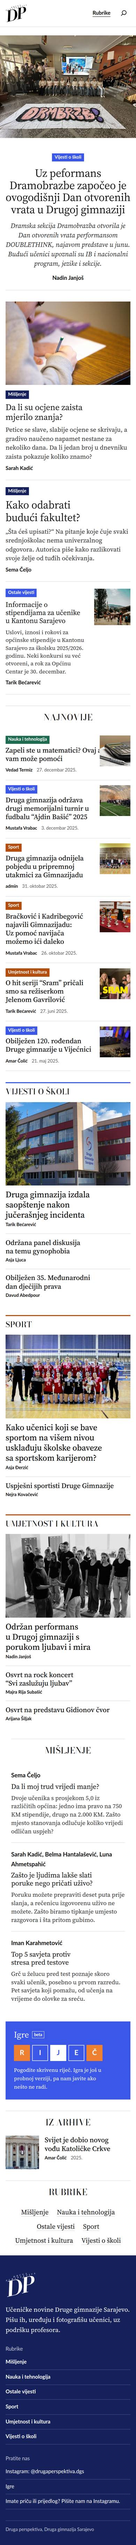
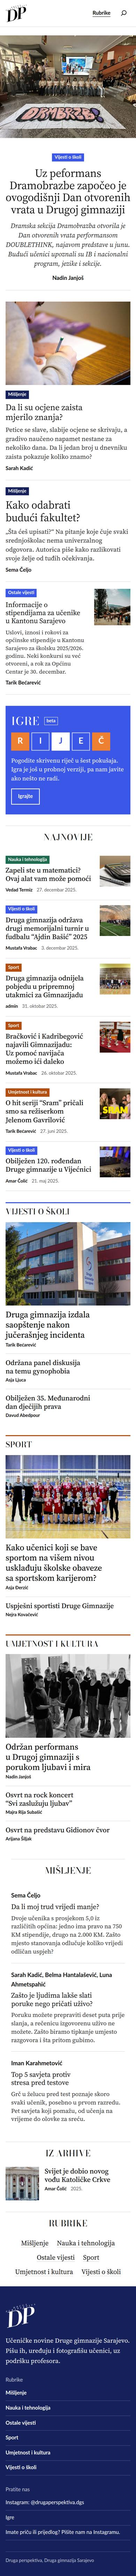
Move Igre up as a wide band under the featured stories
Igre becomes a full-width blue band between the features and Najnovije,
with a larger title, bigger letter tiles and an 'Igrajte' button; the
bottom row is now Iz arhive and Rubrike. Also show titles pasted with
non-breaking spaces with normal spaces so they wrap. Version 1.4.0.

Claude-Session: https://claude.ai/code/session_01QPkDtEsER7FQnCPTtN3PAv

diff --git a/druga-perspektiva/assets/css/theme.css b/druga-perspektiva/assets/css/theme.css
@@ -599,15 +599,26 @@ p {
 	margin: 0 !important;
 }
 
+/* Igre: široka plava traka odmah ispod izdvojenih tekstova. */
 .dp-igre-tile {
 	position: relative;
-	align-self: start;
+	display: grid !important;
+	gap: 1rem;
+	padding: 1.75rem var(--dp-gutter) !important;
+	margin-inline: calc(-1 * var(--dp-gutter));
 }
 
 .dp-igre-title {
 	margin: 0;
 	color: var(--wp--preset--color--papir);
-	font-size: var(--wp--preset--font-size--naslov-m);
+	font-family: var(--dp-display);
+	font-optical-sizing: none;
+	font-variation-settings: "opsz" 24;
+	font-weight: 500;
+	font-size: clamp(2rem, 1.5rem + 2vw, 3rem);
+	letter-spacing: 0.02em;
+	text-transform: uppercase;
+	line-height: 1;
 }
 
 .dp-igre-title a {
@@ -615,27 +626,31 @@ p {
 	text-decoration: none;
 }
 
+/* Cijela traka je link na igru. */
 .dp-igre-title a::after {
 	content: "";
 	position: absolute;
 	inset: 0;
 }
 
-.dp-igre-title a:hover {
-	color: inherit;
-	text-decoration: underline;
+.dp-igre-tile:hover .dp-igre-cta,
+.dp-igre-tile:focus-within .dp-igre-cta {
+	background: var(--wp--preset--color--papir);
+	color: var(--wp--preset--color--plava-chip);
 }
 
 .dp-beta {
 	display: inline-block;
-	margin-left: 0.3em;
-	padding: 0.15em 0.4em;
-	border: 1px solid rgba(255, 255, 255, 0.8);
+	margin-left: 0.4em;
+	padding: 0.2em 0.45em;
+	border: 1px solid rgba(255, 255, 255, 0.85);
 	font-family: var(--dp-sans);
-	font-size: 0.75rem;
+	font-size: 0.8125rem;
 	font-weight: 700;
+	letter-spacing: 0;
+	text-transform: none;
 	line-height: 1.2;
-	vertical-align: 0.35em;
+	vertical-align: 0.6em;
 }
 
 .dp-igre-tiles {
@@ -646,11 +661,11 @@ p {
 .dp-igre-tiles span {
 	display: grid;
 	place-items: center;
-	width: 42px;
-	height: 42px;
+	width: 48px;
+	height: 48px;
 	border: 2px solid rgba(255, 255, 255, 0.7);
 	font-family: var(--dp-sans);
-	font-size: 1.25rem;
+	font-size: 1.5rem;
 	font-weight: 700;
 	color: var(--wp--preset--color--papir);
 }
@@ -668,7 +683,21 @@ p {
 
 .dp-igre-tile p {
 	margin: 0;
-	max-width: 34ch;
+}
+
+.dp-igre-text {
+	max-width: 30rem;
+	font-size: 1.0625rem;
+	line-height: 1.5;
+}
+
+.dp-igre-cta {
+	justify-self: start;
+	padding: 0.55rem 1.1rem;
+	border: 2px solid var(--wp--preset--color--papir);
+	font-family: var(--dp-sans);
+	font-weight: 700;
+	font-size: var(--wp--preset--font-size--ui);
 }
 
 .dp-archive-list > li {
@@ -1218,10 +1247,7 @@ body:not(.paged) .dp-river--first-big > li:first-child .wp-block-post-title {
 
 	.dp-bottom {
 		grid-template-columns: 1fr 1fr;
-	}
-
-	.dp-rubrike-module {
-		grid-column: 1 / -1;
+		column-gap: 3rem;
 	}
 
 	.is-style-siroka-fotografija {
@@ -1230,6 +1256,20 @@ body:not(.paged) .dp-river--first-big > li:first-child .wp-block-post-title {
 }
 
 @media (min-width: 782px) {
+	.dp-igre-tile {
+		margin-inline: 0;
+		grid-template-columns: auto 1fr auto;
+		grid-template-areas: "title text cta" "tiles text cta";
+		column-gap: 3rem;
+		align-items: center;
+		padding: 2rem 2.5rem !important;
+	}
+
+	.dp-igre-title { grid-area: title; }
+	.dp-igre-tiles { grid-area: tiles; }
+	.dp-igre-text { grid-area: text; }
+	.dp-igre-cta { grid-area: cta; }
+
 	.dp-lead-card {
 		grid-template-columns: 1fr 1fr;
 		gap: 3rem;
@@ -1342,13 +1382,6 @@ body:not(.paged) .dp-river--first-big > li:first-child .wp-block-post-title {
 }
 
 @media (min-width: 1000px) {
-	.dp-bottom {
-		grid-template-columns: 1fr 1fr 1fr;
-	}
-
-	.dp-rubrike-module {
-		grid-column: auto;
-	}
 
 	.dp-article-body .wp-block-pullquote {
 		margin-left: -3rem;

diff --git a/druga-perspektiva/templates/front-page.html b/druga-perspektiva/templates/front-page.html
@@ -44,6 +44,8 @@
 	</div>
 	<!-- /wp:query -->
 
+	<!-- wp:pattern {"slug":"druga-perspektiva/igre-tile"} /-->
+
 	<!-- wp:query {"queryId":3,"query":{"perPage":6,"pages":0,"offset":0,"postType":"post","order":"desc","orderBy":"date","author":"","search":"","exclude":[],"sticky":"","inherit":false},"className":"dp-latest dp-min-3","metadata":{"name":"Najnovije"}} -->
 	<div class="wp-block-query dp-latest dp-min-3">
 		<!-- wp:heading {"level":2,"className":"dp-module-heading"} -->
@@ -130,8 +132,6 @@
 
 	<!-- wp:group {"className":"dp-bottom","layout":{"type":"default"}} -->
 	<div class="wp-block-group dp-bottom">
-		<!-- wp:pattern {"slug":"druga-perspektiva/igre-tile"} /-->
-
 		<!-- wp:query {"queryId":5,"query":{"perPage":1,"pages":0,"offset":0,"postType":"post","order":"desc","orderBy":"date","author":"","search":"","exclude":[],"sticky":"","inherit":false},"className":"dp-archive dp-min-1","metadata":{"name":"Iz arhive"}} -->
 		<div class="wp-block-query dp-archive dp-min-1">
 			<!-- wp:heading {"level":2,"className":"dp-module-heading"} -->

diff --git a/druga-perspektiva/style.css b/druga-perspektiva/style.css
@@ -6,7 +6,7 @@ Description: Blok tema za učeničke novine Druga perspektiva (Druga gimnazija S
 Requires at least: 6.6
 Tested up to: 7.1
 Requires PHP: 7.4
-Version: 1.3.0
+Version: 1.4.0
 License: GNU General Public License v2 or later
 License URI: http://www.gnu.org/licenses/gpl-2.0.html
 Text Domain: druga-perspektiva

diff --git a/druga-perspektiva/patterns/igre-tile.php b/druga-perspektiva/patterns/igre-tile.php
@@ -18,8 +18,12 @@
 	<div class="dp-igre-tiles" aria-hidden="true"><span class="is-hit">R</span><span>I</span><span class="is-near">J</span><span>E</span><span class="is-hit">Č</span></div>
 	<!-- /wp:html -->
 
-	<!-- wp:paragraph {"fontSize":"ui"} -->
-	<p class="has-ui-font-size">Pogodite skrivenu riječ. Igra je još u probnoj verziji, pa nam javite ako nešto ne radi.</p>
+	<!-- wp:paragraph {"className":"dp-igre-text"} -->
+	<p class="dp-igre-text">Pogodite skrivenu riječ u šest pokušaja. Igra je još u probnoj verziji, pa nam javite ako nešto ne radi.</p>
+	<!-- /wp:paragraph -->
+
+	<!-- wp:paragraph {"className":"dp-igre-cta"} -->
+	<p class="dp-igre-cta">Igrajte</p>
 	<!-- /wp:paragraph -->
 </div>
 <!-- /wp:group -->

diff --git a/druga-perspektiva/functions.php b/druga-perspektiva/functions.php
@@ -666,6 +666,19 @@ add_filter( 'render_block_core/query-title', 'dp_search_title', 10, 2 );
  * Sitnice
  * ---------------------------------------------------------------------- */
 
+/**
+ * Naslovi zalijepljeni iz Worda ili Google Docsa često imaju "tvrde" razmake
+ * (&nbsp;) zbog kojih se red ne može prelomiti. Pri prikazu ih pretvaramo u
+ * obične razmake; sačuvani naslov se ne mijenja.
+ */
+function dp_normal_spaces_in_titles( $title ) {
+	if ( is_admin() ) {
+		return $title;
+	}
+	return str_replace( array( "\xC2\xA0", '&nbsp;', '&#160;' ), ' ', $title );
+}
+add_filter( 'the_title', 'dp_normal_spaces_in_titles' );
+
 /** Automatski izvod bez "[…]". */
 add_filter(
 	'excerpt_more',
